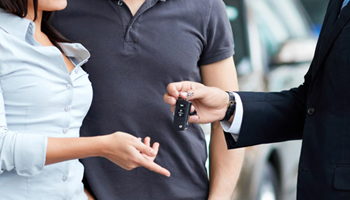
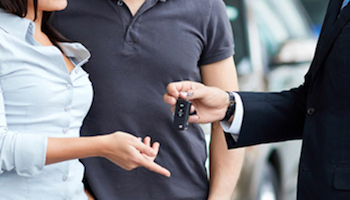
Change the width and height of slider and adspace.

diff --git a/new.html b/new.html
@@ -390,25 +390,28 @@
   <!--
     Advertisement Section
 
-    Slider Image Size: 300 * 250
+    Slider Image Size: height: 230px
+    AdSpace Image Size: 300 * 250
   -->
   <section name="advertiseSection" id="advertiseSection" class="content-section">
     <div class="container">
       <h1 align="center">Advertisement</h1>
       <hr />
 
-      <div class="col-md-3 well adspace">
-        <h1>300 * 250</h1>
-      </div>
-      <div class="col-md-9">
-        <ul id="servicesFlexisel">
-          <li><img src="images/img1.jpg" alt="" /></li>
-          <li><img src="images/img2.jpg" alt="" /></li>
-          <li><img src="images/img3.jpg" alt="" /></li>
-          <li><img src="images/img4.jpg" alt="" /></li>
-        </ul>
-        <div class="clearout"></div>
-        <hr>
+      <div class="row">
+        <div class="col-md-4 text-center">
+          <img src="images/adspace.jpg" alt="" style="adspace" />
+        </div>
+        <div class="col-md-8">
+          <ul id="servicesFlexisel">
+            <li><img src="images/img1.jpg" alt="" /></li>
+            <li><img src="images/img2.jpg" alt="" /></li>
+            <li><img src="images/img3.jpg" alt="" /></li>
+            <li><img src="images/img4.jpg" alt="" /></li>
+          </ul>
+          <div class="clearout"></div>
+          <hr>
+        </div>
       </div>
     </div>
   </section>
@@ -426,6 +429,7 @@
     });
   </script>
 
+  
   <!-- Footer Page -->
   <hr>
   <div class="footer-colour">

diff --git a/css/newstyle.css b/css/newstyle.css
@@ -320,6 +320,9 @@ Custom Navigation Bar */
 /* Advertisement Section */
 .adspace {
 	min-height: 250px;
+	max-height: 250px;
+	min-width: 300px;
+	max-width: 300px;
 }
 
 /*-- Flexisel Styles --*/
@@ -367,7 +370,10 @@ display: none;
 	line-height:0px;
 }
 .nbs-flexisel-item img {
-	max-width: 100%;
+	/*max-width: 100%;
+	min-width: 100%;*/
+	max-height: 230px;
+	min-height: 230px;
 	cursor: pointer;
 	position: relative;
 	margin-top: 10px;
